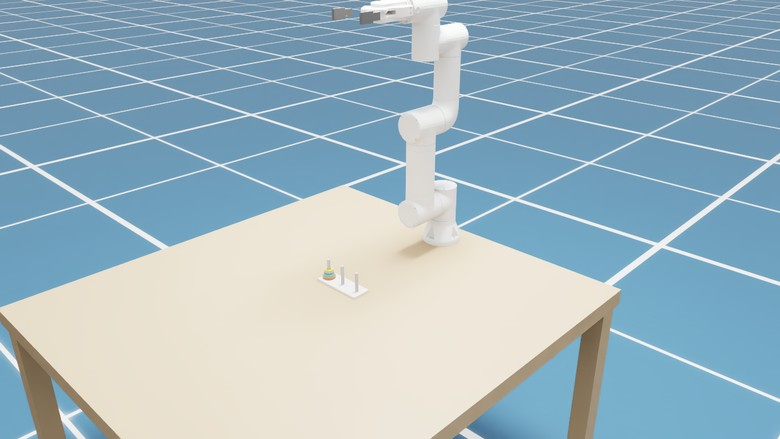
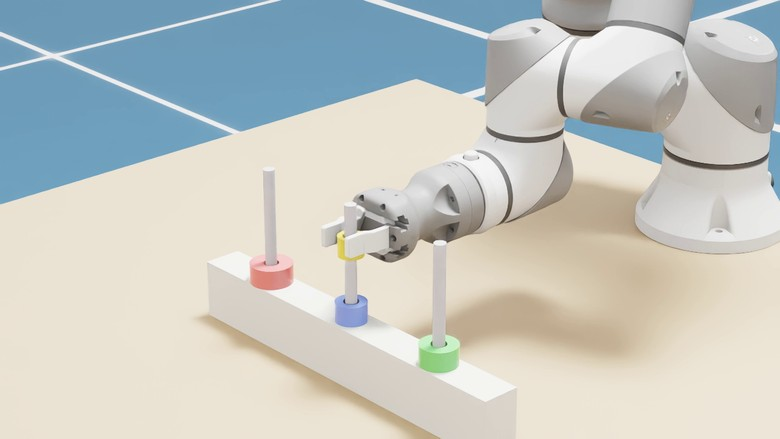
docs: README environment images (close-up of the twin, randomised canonical views, occlusion overlay)

diff --git a/README.md b/README.md
@@ -25,10 +25,10 @@ to the same convention, so the camera can be moved without re-calibration.
 <p align="center">
   <img src="docs/media/sim_scene.jpg" height="220" alt="Isaac Lab twin">
   <img src="docs/media/canonical_views.jpg" height="220" alt="Randomised canonical views">
-  <img src="docs/media/robot_recolour.jpg" height="220" alt="Robot recolour randomisation">
+  <img src="docs/media/occlusion_overlay.jpg" height="220" alt="Estimated vs. true ring outline under occlusion">
 </p>
-<p align="center"><sub>Isaac Lab twin (FR3, AG-95, Tower of Hanoi on an ArUco mat) · canonical views under camera,
-aim and appearance randomisation · robot-recolour randomisation</sub></p>
+<p align="center"><sub>Isaac Lab twin (FR3 + AG-95, earlier scene without the mat) · canonical views under camera,
+aim and appearance randomisation · occlusion: estimated ring outline vs. truth while the gripper hides the ring</sub></p>
 
 ## Architecture
 

diff --git a/README.ko.md b/README.ko.md
@@ -24,10 +24,10 @@
 <p align="center">
   <img src="docs/media/sim_scene.jpg" height="220" alt="Isaac Lab 트윈">
   <img src="docs/media/canonical_views.jpg" height="220" alt="무작위화된 정규화 시야">
-  <img src="docs/media/robot_recolour.jpg" height="220" alt="로봇 재색칠 무작위화">
+  <img src="docs/media/occlusion_overlay.jpg" height="220" alt="가림 상태의 추정 윤곽과 실제 윤곽">
 </p>
-<p align="center"><sub>Isaac Lab 트윈(FR3, AG-95, ArUco 매트 위 하노이탑) · 카메라 위치·조준·외관을 무작위화한
-정규화 시야 · 로봇 재색칠 무작위화</sub></p>
+<p align="center"><sub>Isaac Lab 트윈(FR3 + AG-95, 매트가 없는 이전 장면) · 카메라 위치·조준·외관을 무작위화한
+정규화 시야 · 그리퍼가 링을 가린 순간의 추정 윤곽과 실제 윤곽</sub></p>
 
 ## 구조
 
